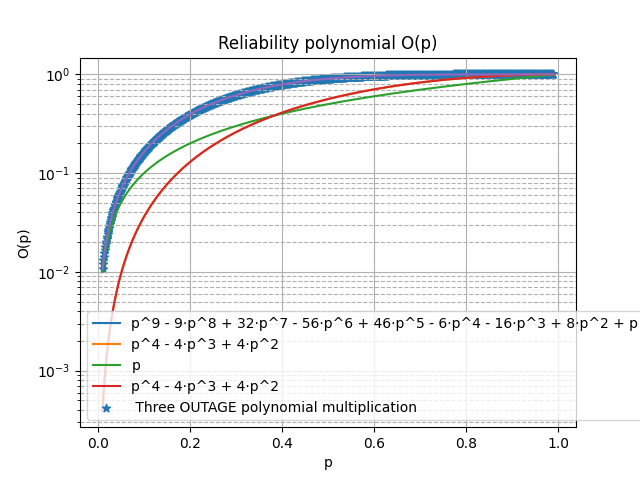
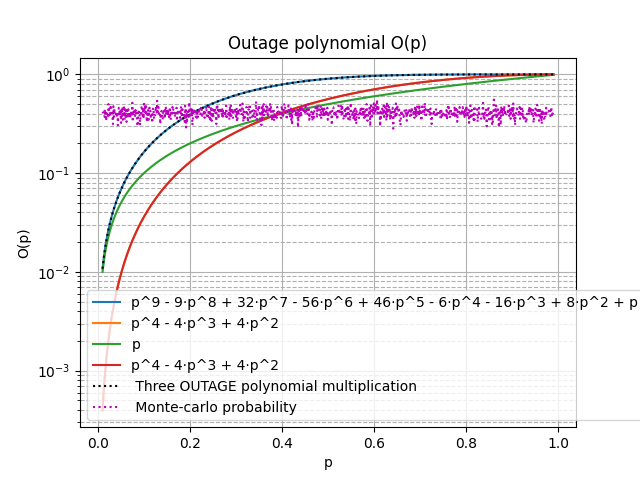
continued monte-carlo sim

Changed region(s): [[0.125, 0.5938, 1.0, 0.875], [0.1562, 0.0625, 0.875, 0.5625], [0.1562, 0.8438, 0.1875, 0.875]]

diff --git a/main.py b/main.py
@@ -11,6 +11,9 @@ from collections import Counter
 import sympy
 import numpy
 import matplotlib.pyplot as plt
+from itertools import chain
+from networkx.algorithms.connectivity import k_edge_components
+import random
 
 # GLOBAL VARIABLE, to be run once
 legend = []
@@ -47,13 +50,16 @@ class OutagePolynomial(sympy.Function):
     return result, UpperB
   @classmethod
   # defining subclass function with 'eval()' class method
-  def plot(cls, x, y, UpperB, string_expanded_polynomial):
+  def plot(cls, x, y, UpperB, string_expanded_polynomial, marker=None):
     ### PLOT
     # convert y-axis to Logarithmic scale
     plt.yscale("log")
-
-    # plotting the points
-    plt.plot(x, y)
+    if marker==None:
+        # plotting the points
+        plt.plot(x, y)
+    else:
+        # plotting the points
+        plt.plot(x, y, marker, ms = 1)
     # plt.plot(x,UpperB)
     # legend
     legend.append(string_expanded_polynomial)
@@ -64,7 +70,7 @@ class OutagePolynomial(sympy.Function):
     plt.ylabel('O(p)')
 
     # giving a title to my graph
-    plt.title('Reliability polynomial O(p)')
+    plt.title('Outage polynomial O(p)')
 
     # Add gridlines to the plot
     plt.grid(visible=True, which='major', linestyle='-')
@@ -207,7 +213,115 @@ def draw_graph(G, path) :
     # Save the file and show the figure 
     plt.savefig(path)
     # plt.show()
-        
+
+# def compute_pathsets(graph, source, target):
+#     paths = list(nx.all_simple_paths(graph, source=source, target=target))
+#     return paths
+
+def compute_all_edge_pathsets(graph, source, target):
+    all_edge_pathsets = []
+
+    def dfs(node, current_path):
+        if node == target:
+            all_edge_pathsets.append(tuple(current_path))
+        for neighbor in graph.neighbors(node):
+            edge = (node, neighbor)
+            if edge not in current_path:
+                dfs(neighbor, current_path + [edge])
+
+    dfs(source, [])
+    return all_edge_pathsets
+
+def compute_and_visualize_pathsets(graph, source, target, pathsets):
+    pos = nx.spring_layout(graph)
+    plt.figure(figsize=(8, 6))
+    
+    # Draw nodes
+    nx.draw_networkx_nodes(graph, pos, node_color='c', node_size=100, alpha=1)
+    
+    # Draw edges as separate curves
+    for u, v, key in graph.edges(keys=True):
+        connection_style = "arc3,rad=" + str(0.3 * key)
+        plt.annotate("",
+                    xy=pos[u], xycoords='data',  # Source node
+                    xytext=pos[v], textcoords='data',  # Target node
+                    arrowprops=dict(arrowstyle="->", color="0.5",
+                                    shrinkA=5, shrinkB=5,
+                                    patchA=None, patchB=None,
+                                    connectionstyle=connection_style),
+                    )
+    
+    # Draw node labels
+    node_labels = {n: n for n in graph.nodes}
+    nx.draw_networkx_labels(graph, pos, labels=node_labels)
+    
+    # Visualize pathsets
+    for i, path in enumerate(pathsets):
+        color = plt.cm.viridis(i / len(pathsets))  # Use a colormap for path coloring
+        for j in range(len(path) - 1):
+            u, v = path[j], path[j + 1]
+            plt.plot([pos[u][0], pos[v][0]], [pos[u][1], pos[v][1]], color=color)
+    
+    # Turn off axis
+    plt.axis('off')
+    
+    plt.show()
+   
+def simulate_packet_arrival(path, edge_probabilities, one_edge_probability):
+    """
+    Simulate the arrival of a packet from source to target along a path based on edge probabilities.
+
+    Args:
+    - path (list of edges): The path from source to target, represented as a list of edges.
+    - edge_probabilities (dict): A dictionary where keys are edges (as tuples) and values are edge probabilities.
+
+    Returns:
+    - bool: True if the packet successfully arrived, False otherwise.
+    """
+    probability = 1.0
+
+    for edge in path:
+        # if edge in edge_probabilities:
+        probability *= one_edge_probability
+        # else:
+        #     # If the edge probability is not provided, assume a default value, e.g., 1.0 (always succeeds).
+        #     probability *= 1.0
+        # probability *= edge_probability
+
+    # Simulate packet arrival based on calculated probability
+    return random.random() < probability
+
+
+def trial_monte_carlo(total_trial_number, path, edge_probabilities, one_edge_probability) :
+    average_log = []
+    x = numpy.arange(1, total_trial_number, 1)
+    for trial_number in x :
+        log_packet_arrival = []
+        for trial in range(1,trial_number+1) :
+
+            # Simulate packet arrival.
+            packet_arrived = simulate_packet_arrival(path, edge_probabilities, one_edge_probability)
+            log_packet_arrival.append(packet_arrived)
+
+        # Calculate the average of elements in log_packet_arrival
+        average_packet_arrival = sum(log_packet_arrival) / len(log_packet_arrival)
+        average = average_packet_arrival
+        average_log.append(average)
+    average_success_over_trials = average_log[-1]
+    return average_log, average_success_over_trials
+
+def create_dict_edge_probabilities(all_pathsets, one_edge_probability) :
+    # one_edge_probability = 0.9  # change this probability as needed
+
+    # Create a dictionary to associate every edge with the edge-probability pair
+    edge_probabilities = {}
+
+    # Iterate through all_edge_pathsets and populate the edge_probabilities dictionary
+    for pathset in all_pathsets:
+        for edge in pathset:
+            edge_probabilities[edge] = one_edge_probability
+    return edge_probabilities
+
 ### CREATE THE GRAPH G0
 G = nx.MultiDiGraph(directed=True)
 # Nodes 
@@ -328,9 +442,60 @@ OutagePolynomial.plot(p3, O_p3, UpperB3, string_expanded_polynomial3)
 
 O_p123 = multiply_two_lists(O_p1, O_p2, O_p3)
 UpperB123 = [] # Upper bound for this case is nothing for now, to be changed later on
-plt.scatter(p2, O_p123, marker="*") 
-OutagePolynomial.plot(p2, O_p123, UpperB2, " Three OUTAGE polynomial multiplication")
+# plt.scatter(p2, O_p123, 'o:r') 
+# marker = '^k:'
+OutagePolynomial.plot(p2, O_p123, UpperB2, " Three OUTAGE polynomial multiplication", marker='k:')
 
+# # Graph 0
+# pathsets0 = compute_pathsets(G, s_node, t_node)
+# compute_and_visualize_pathsets(G, s_node, t_node, pathsets0)
+
+# Initialize a list to store pathsets for each graph
+monte_carlo_average_success_over_trials = []
+for one_edge_probability in p :
+    ### MONTE-CARLO Confirmation of results
+    # Graph 0
+
+    all_pathsets = compute_all_edge_pathsets(G, s_node, t_node)
+    one_edge_probability = 0.8
+    edge_probabilities = create_dict_edge_probabilities(all_pathsets[0], one_edge_probability) 
+
+    total_trial_number = round(100*1/one_edge_probability)
+    average_log, average_success_over_trials = trial_monte_carlo(total_trial_number, all_pathsets, edge_probabilities, one_edge_probability)
+    monte_carlo_average_success_over_trials.append(average_success_over_trials)
+
+OutagePolynomial.plot(p, monte_carlo_average_success_over_trials, UpperB2, " Monte-carlo probability", marker='m:')
+print("all_pathsets : ",all_pathsets[0])
+# # convert y-axis to Logarithmic scale
+# plt.yscale("log")
+# plt.plot(p,monte_carlo_average_success_over_trials)
+# # naming the x axis
+# plt.xlabel('p')
+# # naming the y axis
+# plt.ylabel('Monte-carlo success')
+
+# # giving a title to my graph
+# plt.title('Average success of Monte-carlo trials over p')
+
+# # Add gridlines to the plot
+# plt.grid(visible=True, which='major', linestyle='-')
+# plt.grid(visible=True, which='minor', linestyle='--')
+# # grid(b=True, which='major', color='b', linestyle='-')
+
+# # Save the file and show the figure
+# plt.savefig("monte_carlo_success.png")
+
+# # Graph 1
+# pathsets1 = compute_pathsets(G1, s_node1, t_node1)
+# compute_and_visualize_pathsets(G1, s_node1, t_node1, pathsets1)
+
+# # Graph 2
+# pathsets2 = compute_pathsets(G2, s_node2, t_node2)
+# compute_and_visualize_pathsets(G2, s_node2, t_node2, pathsets2)
+
+# # Graph 3
+# pathsets3 = compute_pathsets(G3, s_node3, t_node3)
+# compute_and_visualize_pathsets(G3, s_node3, t_node3, pathsets3)
 ##################################################
 
 

diff --git a/monte-carlo_path_arrival.py b/monte-carlo_path_arrival.py
@@ -1,0 +1,70 @@
+import random
+import numpy as np
+import matplotlib.pyplot as plt
+def simulate_packet_arrival(path, edge_probability):
+    """
+    Simulate the arrival of a packet from source to target along a path based on edge probabilities.
+
+    Args:
+    - path (list of edges): The path from source to target, represented as a list of edges.
+    - edge_probabilities (dict): A dictionary where keys are edges (as tuples) and values are edge probabilities.
+
+    Returns:
+    - bool: True if the packet successfully arrived, False otherwise.
+    """
+    probability = 1.0
+
+    for edge in path:
+        # if edge in edge_probabilities:
+        #     probability *= edge_probabilities[edge]
+        # else:
+        #     # If the edge probability is not provided, assume a default value, e.g., 1.0 (always succeeds).
+        #     probability *= 1.0
+        probability *= edge_probability
+
+    # Simulate packet arrival based on calculated probability
+    return random.random() < probability
+
+def trial_monte_carlo(total_trial_number, path, edge_probability) :
+    average_log = []
+    x = np.arange(1, total_trial_number, 1)
+    for trial_number in x :
+        log_packet_arrival = []
+        for trial in range(1,trial_number+1) :
+
+            # Simulate packet arrival.
+            packet_arrived = simulate_packet_arrival(path, edge_probability)
+            log_packet_arrival.append(packet_arrived)
+
+        # Calculate the average of elements in log_packet_arrival
+        average_packet_arrival = sum(log_packet_arrival) / len(log_packet_arrival)
+        average = average_packet_arrival
+        average_log.append(average)
+    average_success_over_trials = average_log[-1]
+    return average_log, average_success_over_trials
+
+# Define the path from source to target as a list of edges (as tuples).
+path = [(1, 2), (2, 3), (3, 4)]
+
+# Define edge probabilities as a dictionary.
+probability_p = 0.7
+edge_probabilities = {
+    (1, 2): probability_p,  # Probability of success for edge (1, 2) is p
+    (2, 3): probability_p,  # Probability of success for edge (2, 3) is p
+    (3, 4): probability_p  # Probability of success for edge (3, 4) is p
+}
+print("Edge probabilies = ", edge_probabilities)
+edge_probability = probability_p
+total_trial_number = round(1000*1/probability_p)
+average_log, average_success_over_trials = trial_monte_carlo(total_trial_number, path, edge_probability)
+
+
+x = np.arange(1, total_trial_number, 1)
+plt.plot(x,average_log)
+print("Last value of p other : ", average_success_over_trials)
+plt.show()
+# # Print the result.
+# if packet_arrived:
+#     print("The packet successfully arrived!")
+# else:
+#     print("The packet did not arrive.")
